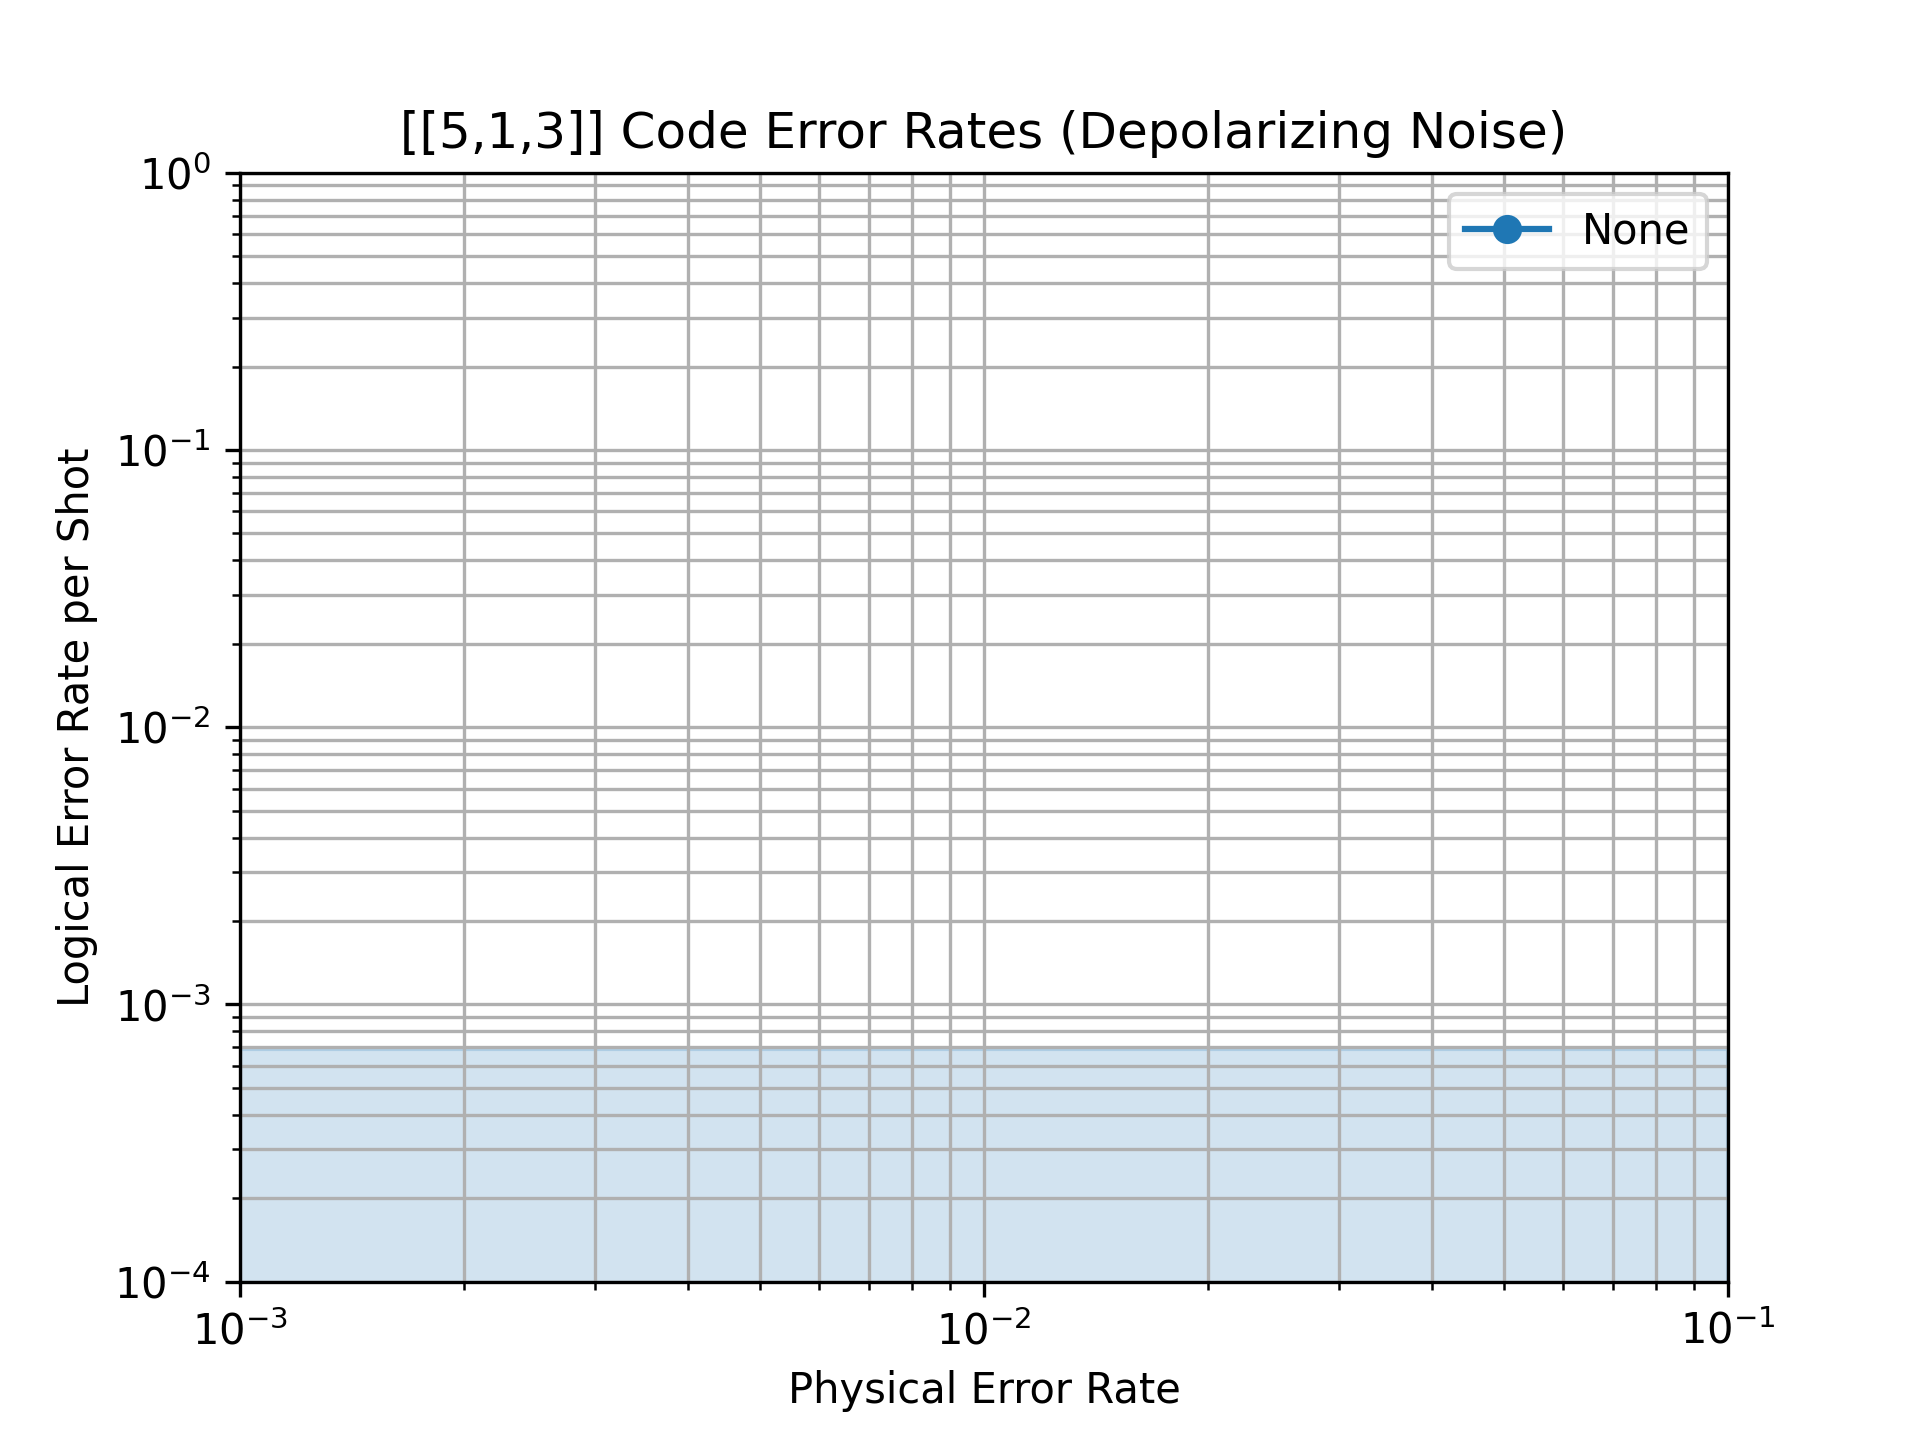
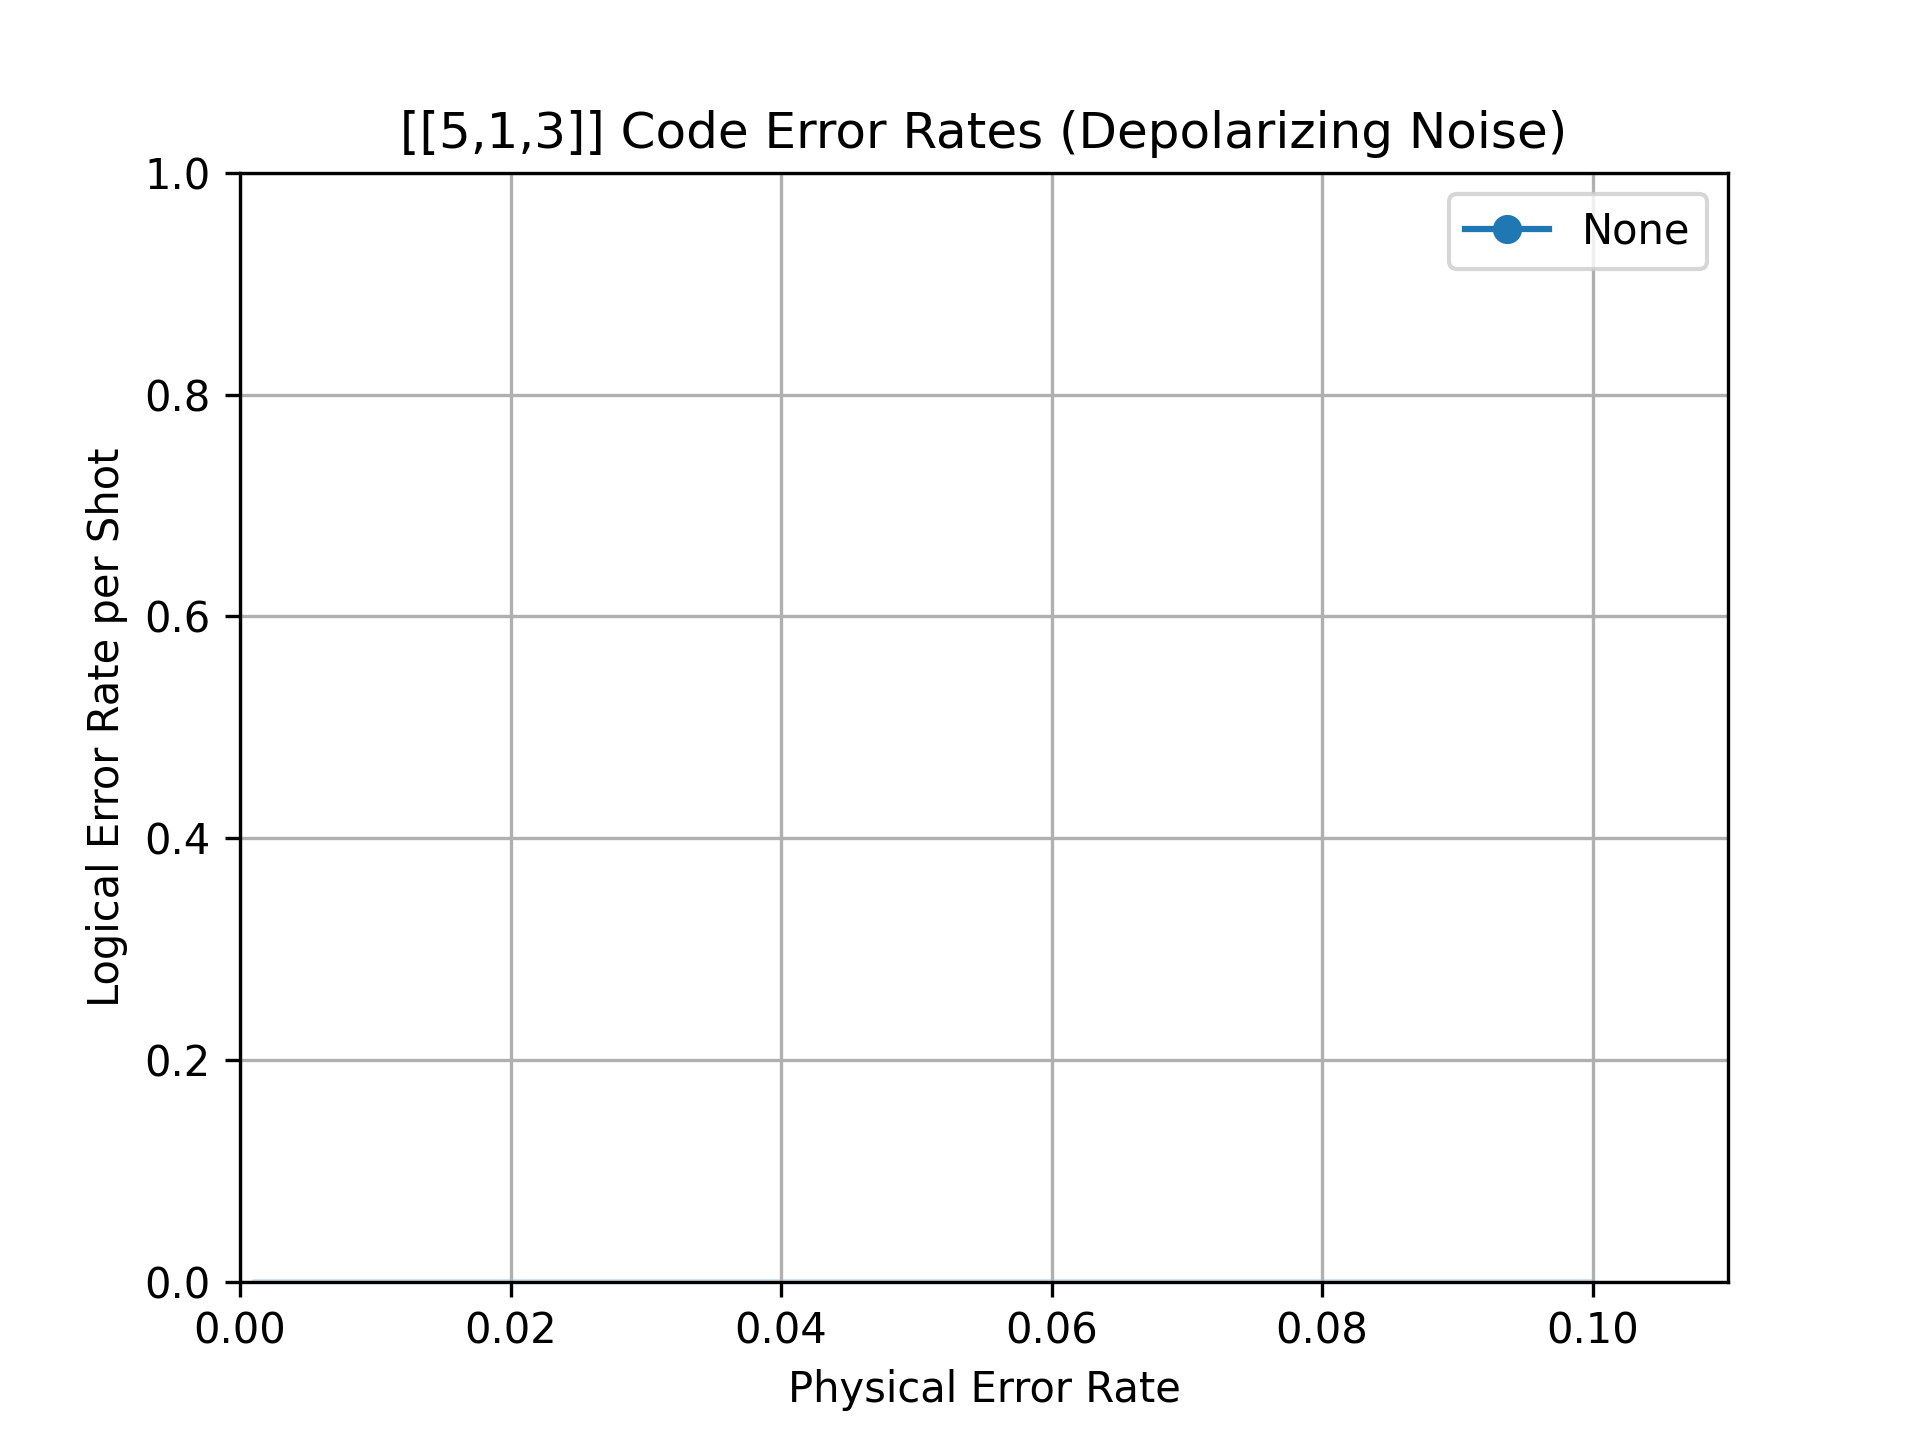
circuit working

Changed region(s): [[0.0312, 0.125, 0.9062, 0.9375], [0.0625, 0.0938, 0.125, 0.125], [0.875, 0.125, 0.9062, 0.1562]]

diff --git a/main.py b/main.py
@@ -5,7 +5,7 @@ import sinter
 from typing import List
 
 # Change this constant to modify the number of logical qubits (blocks)
-NUM_BLOCKS = 1
+NUM_BLOCKS = 3
 
 def stabilizer_to_mpp_targets(stab, block_qubits):
     """
@@ -51,16 +51,48 @@ def encode_logical(circuit, block_qubits):
     """
     q0, q1, q2, q3, q4 = block_qubits
 
-    circuit.append("CNOT", [q0, q3])
-    circuit.append("H_YZ", [q1])
-    circuit.append("H", [q1])
-    circuit.append("CNOT", [q1, q3])
-    circuit.append("CNOT", [q1, q2])
-    circuit.append("H", [q4])
-    circuit.append("CNOT", [q4, q1])
-    circuit.append("CNOT", [q4, q0])
-    circuit.append("H_YZ", [q0])
-    circuit.append("CNOT", [q0, q2])
+
+    # Methods from https://arxiv.org/abs/quant-ph/0410004. Looks like this doesn't work and there might be some issues
+    #   differences
+    #
+    # circuit.append("CNOT", [q0, q3])
+    # circuit.append("H_YZ", [q1])
+    # circuit.append("H", [q1])
+    # circuit.append("CNOT", [q1, q3])
+    # circuit.append("CNOT", [q1, q2])
+    # circuit.append("H", [q4])
+    # circuit.append("CNOT", [q4, q1])
+    # circuit.append("CNOT", [q4, q0])
+    # circuit.append("H_YZ", [q0])
+    # circuit.append("CNOT", [q0, q2])
+
+    # Methods from https://doi.org/10.1201%2F9781420012293. There is some permutation of qubits we need to do to make
+    #   this work.
+    #
+    # circuit.append("Z", [q0])
+    # circuit.append("H", [q1])
+    # circuit.append("CX", [q1, q0])
+    # circuit.append("CZ", [q1, q2])
+    # circuit.append("CZ", [q1, q4])
+    #
+    # circuit.append("H", [q4])
+    # circuit.append("CX", [q4, q0])
+    # circuit.append("CZ", [q4, q1])
+    # circuit.append("CZ", [q4, q3])
+    #
+    # circuit.append("H", [q3])
+    # circuit.append("CZ", [q3, q0])
+    # circuit.append("CZ", [q3, q2])
+    # circuit.append("CX", [q3, q4])
+    #
+    # circuit.append("H",[q2])
+    # circuit.append("CZ", [q2, q1])
+    # circuit.append("CX", [q2, q3])
+    # circuit.append("CZ", [q2, q4])
+
+    circuit.append("H", [q1, q2, q3, q4])
+    circuit.append("CX", [q1, q0, q2, q0, q3, q0, q4, q0])
+    circuit.append("CZ", [q1, q2, q2, q3, q3, q4, q4, q0, q0, q1])
 
 def create_circuit(error_rate):
     """
@@ -110,8 +142,6 @@ def create_circuit(error_rate):
     for qubit in range(total_qubits):
         circuit.append("M", qubit)
 
-    print(circuit)
-    print("CIRCUIT ABOVE")
     return circuit
 
 def main():
@@ -123,16 +153,17 @@ def main():
             circuit=create_circuit(noise),
             json_metadata={'blocks': NUM_BLOCKS, 'p': noise},
         )
-        for noise in [0.001]#[0.001, 0.005, 0.01, 0.02, 0.05, 0.1]
+        for noise in [0.001, 0.005, 0.01, 0.02, 0.05, 0.1]
     ]
 
     collected_stats: List[sinter.TaskStats] = sinter.collect(
         num_workers=4,
         tasks=tasks,
         decoders=['pymatching'],
-        max_shots=10_000,
+        max_shots=10000,
         max_errors=500,
     )
+    print(collected_stats)
 
     fig, ax = plt.subplots(1, 1)
     sinter.plot_error_rate(
@@ -140,9 +171,8 @@ def main():
         stats=collected_stats,
         x_func=lambda stats: stats.json_metadata['p'],
     )
-    ax.set_ylim(1e-4, 1e-0)
-    ax.set_xlim(1e-3, 1e-1)
-    ax.loglog()
+    ax.set_ylim(0, 1.0)
+    ax.set_xlim(0, 0.11)
     ax.set_title("[[5,1,3]] Code Error Rates (Depolarizing Noise)")
     ax.set_xlabel("Physical Error Rate")
     ax.set_ylabel("Logical Error Rate per Shot")
